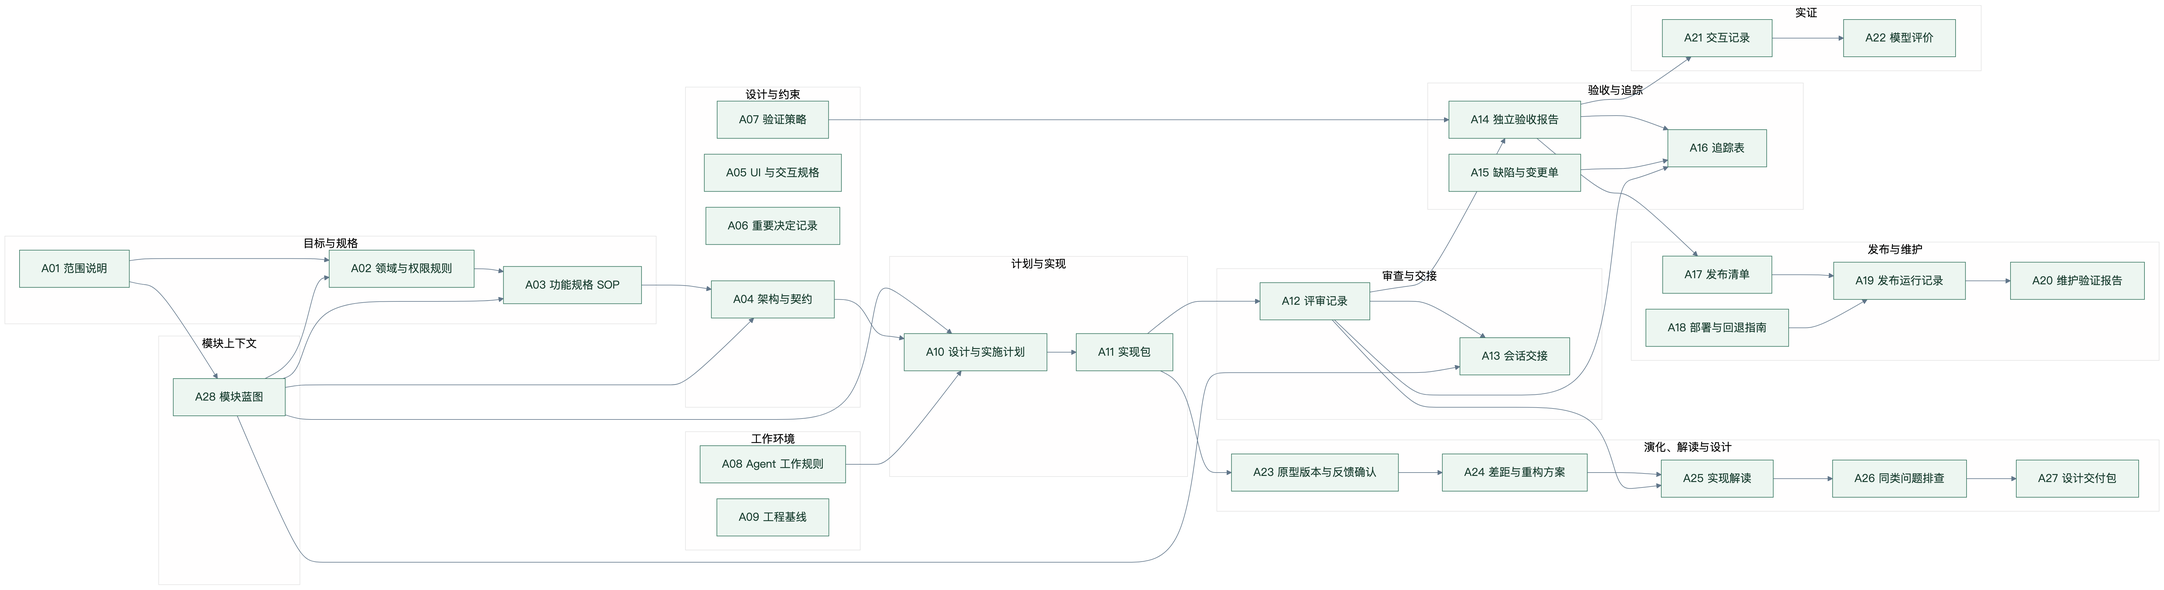
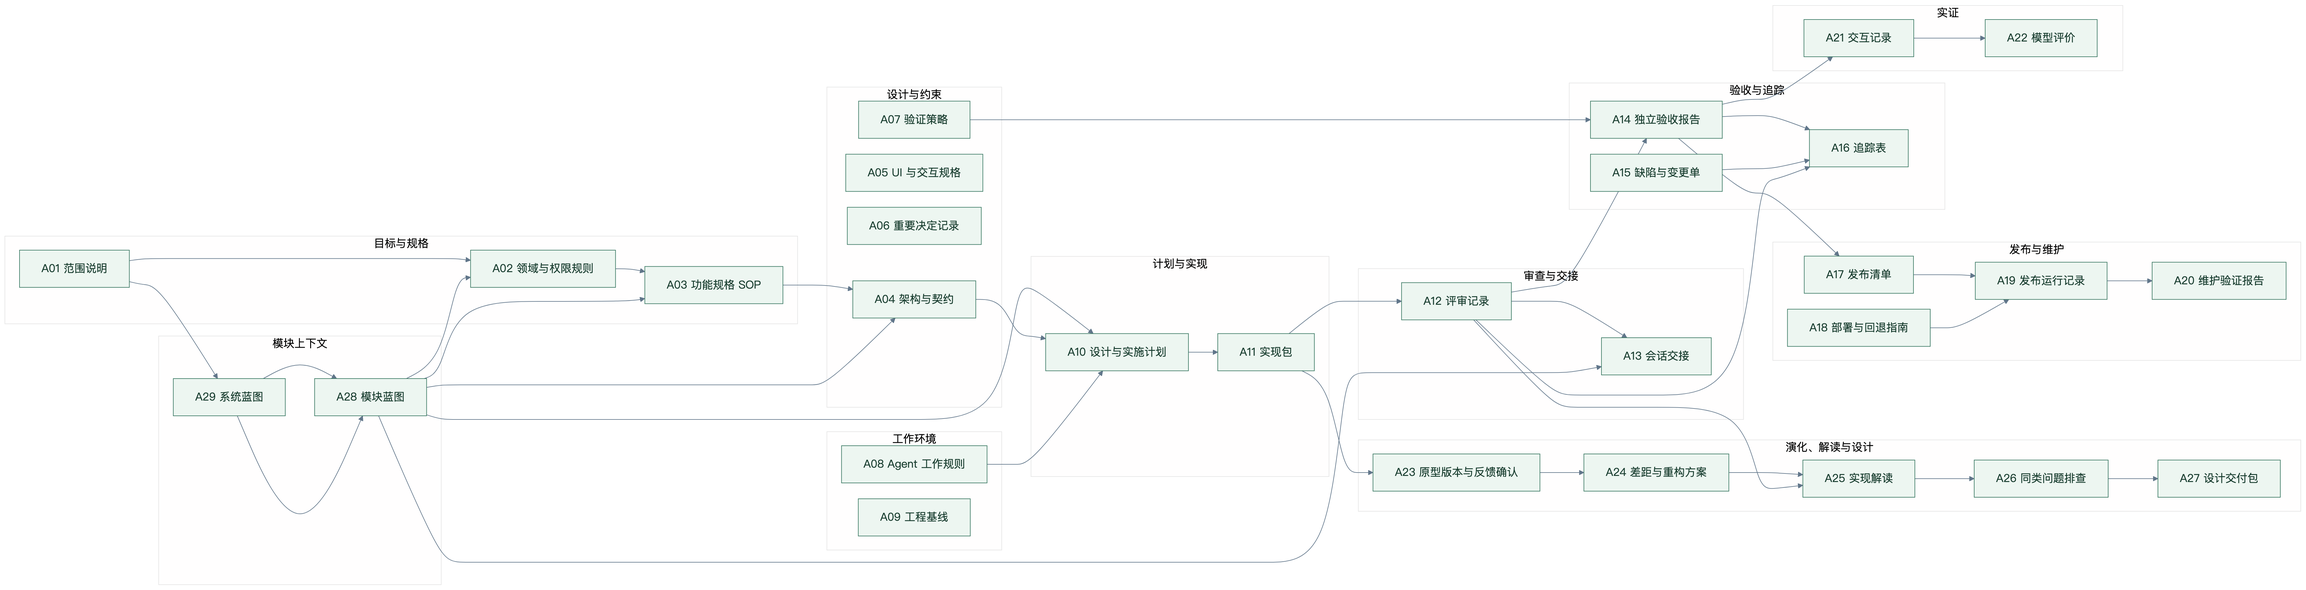
feat: add A29 system blueprint artifact

diff --git a/model/artifacts/A29-system-blueprint.md b/model/artifacts/A29-system-blueprint.md
@@ -1,0 +1,78 @@
+# A29 系统蓝图
+
+## 用途与生命周期
+
+- 适用与触发：每个项目维护一个当前有效实例；系统边界、模块地图、外部关系、跨模块流程或全局约束变化时更新。
+- 生产者：人驱动的 AI；责任角色：项目产品/技术责任人。
+- 输入：A01、A02、A04、A07、A10、所有 A28、外部系统资料、代码事实和开发人员回答。
+- 使用者与用途：模块责任人、系统实现者、架构与领域责任人、审查者、独立验收者和后续会话接手者。
+- 输出：项目内 `docs/system-blueprint.md`；实例、版本、来源及失效遵循[约定](../conventions.md)。
+- 配套：[模板](../templates/A29-system-blueprint.md) · [教学填写示例](../../examples/focustask/docs/artifact-examples/A29-system-blueprint.md)。
+
+## 必填内容与字段含义
+
+| 章节 | 必须回答 |
+| --- | --- |
+| 系统定位与边界 | 系统目标、业务上下文、包含范围、非目标和 A01 关系 |
+| 模块地图 | 模块 ID、名称、职责、状态、优先级、A28 路径和模块依赖 |
+| 外部系统与系统关系 | 外部参与者、系统、接口、事件、数据所有权和信任边界 |
+| 跨模块旅程与关键流程 | 端到端流程、模块顺序、关键分支、失败传播和恢复边界 |
+| 全局角色与不变量 | 跨模块角色边界、权限原则、数据一致性和系统级约束摘要 |
+| 系统数据流与非功能摘要 | 主要数据流、性能/安全/可用性目标、监控和 A04/A07 入口 |
+| 演化与实施顺序 | 模块依赖、实现状态、原型演化顺序、集成候选和 A10 入口 |
+| 关联制品与版本 | A01/A02/A04/A07/A10/A16 及全部 A28 的路径、版本、状态和用途 |
+| 未决事项与系统风险 | 问题、来源、影响范围、责任人、决定状态、变更传播和下一步 |
+| 确认与 handoff | 确认人、确认版本、复核意见、剩余风险、模块入口和下一条指令 |
+
+每个项目只能有一个当前有效 A29 实例。全部当前模块 A28 必须在 A29 登记，A28 必须反向记录所属 A29 路径和版本。A29 只保存系统级摘要、关系、状态和索引，不复制 A01/A02/A03/A04/A28/A10 的完整权威细节。
+
+## 质量标准与边界
+
+系统目标、边界、模块地图、外部关系、跨模块旅程和全局风险可从本文直接找到；每项摘要都有来源和版本。A01 负责项目范围，A02 负责正式领域与权限规则，A03 负责功能点细节，A04 负责技术契约，A28 负责模块内部上下文，A10 负责实施安排。发生冲突时标记来源、影响和待决定事项，不能覆盖权威制品。
+
+- 不足示例：只列模块名称，没有职责、A28 路径、模块关系、跨模块流程或来源。
+- 可判定示例：系统蓝图列出任务与通知模块，标注各自 A28、数据所有权及“创建任务后发布通知事件”的跨模块旅程，并把事件契约指向 A04。
+
+## 人驱动 AI 的操作链
+
+依[提示词协议](../practices/prompt-protocol.md)取得参数。主模型整理资料和问题，开发人员回答系统级关键问题并确认；其他模型复核是可选只读质量环节，复核意见不能自动成为业务确认。
+
+### A29-START
+
+```text
+[A29-START] 请为 {项目} 盘点系统蓝图输入。读取 {输入路径}：A01/A02/A04/A07/A10、全部已有 A28、外部系统资料、代码事实和项目约束。列出已知事实、缺口、冲突、模块候选和需要开发人员回答的问题，不补充未确认的系统边界或全局规则。
+```
+
+### A29-GENERATE
+
+```text
+[A29-GENERATE] 请依据 {输入路径} 使用 model/templates/A29-system-blueprint.md 生成 {项目} 系统蓝图草稿，写入 {输出路径}。建立系统边界、模块地图、外部关系、跨模块旅程、全局约束摘要、演化顺序和关联制品索引。每项摘要记录来源；未知内容标为待确认、模拟或不适用。
+```
+
+### A29-CLARIFY
+
+```text
+[A29-CLARIFY] 请针对 {系统蓝图问题} 读取 {输入路径}，按影响排序列出需要开发人员回答的问题和选项。记录回答来源、适用范围、影响章节及需要同步的 A01/A02/A04/A28/A10；可从仓库发现的事实直接核对，不重复询问。
+```
+
+### A29-REVIEW
+
+```text
+[A29-REVIEW] 请只读复核 {制品路径} 的系统边界、模块覆盖、跨模块旅程、外部关系、来源一致性、重复定义、未决项和下游可实施性。区分事实、建议和待确认；不能修改权威制品或把建议写成确认。
+```
+
+### A29-REVISE
+
+```text
+[A29-REVISE] 请根据开发人员确认和 {复核意见} 修订 {制品路径}。先列影响，再修改获准内容，更新 A28 清单、关联制品版本和失效/待重验项；系统语义没有确认来源时暂停相关改动。
+```
+
+### A29-HANDOFF
+
+```text
+[A29-HANDOFF] 请交付已确认的 {制品路径} 作为系统级 handoff。记录系统版本、模块/A28 清单、权威制品版本、跨模块风险、未决事项和下一条模块构建指令；说明 A29 不替代 A13 会话交接。
+```
+
+## 完成、更新与交接
+
+检查章节、来源、版本、模块清单和下游可用性；确认人和确认版本必须真实记录。草稿完成不等于系统确认，复核建议不等于业务批准。A29 版本变化保留旧版本关系；权威制品或 A28 变化后标记摘要和关联版本待更新。

diff --git a/examples/focustask/docs/artifact-examples/A29-system-blueprint.md b/examples/focustask/docs/artifact-examples/A29-system-blueprint.md
@@ -1,0 +1,63 @@
+# A29 系统蓝图 — FocusTask 教学示例
+
+> 教学填写示例。用于演示系统上下文与检查方法，不作通过结论。
+
+## 元信息
+
+- 实例 ID：FocusTask-A29-teaching
+- 项目：FocusTask 教学系统
+- 版本/状态：teaching-1/草稿（教学）
+- 责任角色：项目产品/技术责任人
+- 输入及版本：A01/A02/A04/A10 教学设定及 A28 教学示例，teaching-1
+- 确认来源：教学设定；实际项目需由开发人员确认
+- 下游用途：生成 tasks 和 notifications 模块 A28，供原型构建读取
+- 生成方式：按 A29 模板整理的教学例，未进行其他模型复核
+
+## 系统定位与边界
+
+FocusTask 教学系统用于演示团队任务创建、查看和通知协作。系统包含任务与通知两个教学模块；不包含真实邀请、计费、支付、组织管理或生产部署。
+
+## 模块地图
+
+| 模块 ID | 名称 | 职责 | 状态 | A28 路径 | 依赖 | 优先级 |
+| --- | --- | --- | --- | --- | --- | --- |
+| tasks | 任务模块 | 创建、查看和筛选任务 | 草稿 | docs/modules/tasks/module-blueprint.md | 项目/成员教学输入 | P0 |
+| notifications | 通知模块 | 接收任务变化通知 | 待生成 | docs/modules/notifications/module-blueprint.md | tasks 事件 | P1 |
+
+## 外部系统与系统关系
+
+教学系统假设身份与项目成员信息由外部前置输入提供，不实现身份提供方。通知只记录教学事件，不连接邮件、短信或推送服务。接口、事件和数据所有权待 A04/A28 确认。
+
+## 跨模块旅程与关键流程
+
+Editor 创建任务后，tasks 模块保存任务并产生“任务已创建”教学事件；notifications 模块读取事件并生成教学通知。任务创建失败时不得生成通知，恢复边界和幂等规则待 A02/A03/A04。
+
+## 全局角色与不变量
+
+Editor 可以创建任务，Viewer 只能查看；非成员不可发现项目。正式权限和数据一致性以 A02 为准，本例没有真实运行结果。
+
+## 系统数据流与非功能摘要
+
+教学数据从界面进入任务接口并持久化，再以教学事件进入通知模块。安全、性能、可用性和监控指标尚未确认，实际采用时由 A04/A07 定义。
+
+## 演化与实施顺序
+
+先建立 tasks 模块蓝图和创建任务 A03，再实现可运行原型；notifications 在任务事件契约确认后开展。集成顺序和候选版本由 A10 记录。
+
+## 关联制品与版本
+
+A01/A02/A04/A10：teaching-1；tasks A28：待根据现有教学输入更新；notifications A28：待生成；A07/A16 未执行。本例只展示关联入口。
+
+## 未决事项与系统风险
+
+待决定：通知事件的所有者、重试/去重语义、任务删除后的通知处理。答案会影响 A02、A04、两个 A28 和具体 A03。
+
+## 确认与 handoff
+
+开发人员确认：未确认。复核意见：未执行。剩余风险：系统边界、事件契约和通知数据均未确定。下一步是根据本蓝图生成 tasks 模块 A28 草稿。
+
+## 检查与交接
+
+运行类检查：未执行。实际采用时替换教学输入并验证。
+
+下一步：使用 A29-START/GENERATE 盘点真实系统资料，再生成或修订各模块 A28；本例不作通过结论。

diff --git a/model/templates/A29-system-blueprint.md b/model/templates/A29-system-blueprint.md
@@ -1,0 +1,82 @@
+# {项目} 系统蓝图
+
+> 空白模板。填写真实来源；未知、待确认和不适用必须说明原因。
+
+## 元信息
+
+- 实例 ID：{项目}-A29-{版本}
+- 项目：{项目标识}
+- 版本/状态：{版本}/{草稿或已确认}
+- 责任角色：{项目产品/技术责任人}
+- 输入及版本：{A01/A02/A04/A07/A10/全部 A28/其他资料}
+- 确认来源：{开发人员回答、既有制品或待确认}
+- 下游用途：{模块规划/实现/审查/验收/会话 handoff}
+- 生成方式：主模型整理；可选其他模型只读复核
+
+## 系统定位与边界
+
+填写要求：系统目标、业务上下文、包含范围、非目标和 A01 关系。
+
+{填写内容}
+
+## 模块地图
+
+填写要求：模块 ID、名称、职责、状态、优先级、A28 路径和模块依赖。
+
+| 模块 ID | 名称 | 职责 | 状态 | A28 路径 | 依赖 | 优先级 |
+| --- | --- | --- | --- | --- | --- | --- |
+| {模块} | {名称} | {职责} | {待生成/草稿/确认} | {路径} | {依赖} | {优先级} |
+
+## 外部系统与系统关系
+
+填写要求：外部参与者、系统、接口、事件、数据所有权和信任边界。
+
+{填写内容}
+
+## 跨模块旅程与关键流程
+
+填写要求：端到端流程、模块顺序、关键分支、失败传播和恢复边界。
+
+{填写内容}
+
+## 全局角色与不变量
+
+填写要求：跨模块角色边界、权限原则、数据一致性和系统级约束摘要；详细规则不在本文重复。
+
+{填写内容}
+
+## 系统数据流与非功能摘要
+
+填写要求：主要数据流、性能/安全/可用性目标、监控和 A04/A07 入口。
+
+{填写内容}
+
+## 演化与实施顺序
+
+填写要求：模块依赖、当前实现状态、原型演化顺序、集成候选和 A10 入口。
+
+{填写内容}
+
+## 关联制品与版本
+
+填写要求：记录 A01、A02、A04、A07、A10、A16 和所有 A28 的路径、版本、状态和用途。
+
+{填写内容}
+
+## 未决事项与系统风险
+
+填写要求：问题、来源、影响范围、责任人、决定状态、变更传播和下一步。
+
+{填写内容}
+
+## 确认与 handoff
+
+填写要求：确认人、确认版本、复核意见、采纳决定、剩余风险、模块入口和下一条系统/模块指令。
+
+{填写内容}
+
+## 检查与交接
+
+系统蓝图检查：{未执行/结果和证据路径}。
+
+下一步：{读取 A29 后生成或更新具体 A28 的指令}。

diff --git a/model/artifacts/A28-module-blueprint.md b/model/artifacts/A28-module-blueprint.md
@@ -4,7 +4,7 @@
 
 - 适用与触发：每个需要独立原型上下文的业务模块使用；模块边界、能力地图、跨模块关系或功能清单变化时更新。
 - 生产者：人驱动的 AI；责任角色：模块产品/技术责任人。
-- 输入：A01、A02、A04、A07、A10、已有 A03、代码与产品资料、相关模块资料和开发人员回答。
+- 输入：所属系统 A29、A01、A02、A04、A07、A10、已有 A03、代码与产品资料、相关模块资料和开发人员回答。
 - 使用者与用途：模块功能实现者、架构与领域责任人、审查者、独立验收者和后续会话接手者。
 - 输出：项目内模块目录的 `module-blueprint.md`；实例、版本、来源及失效遵循[约定](../conventions.md)。
 - 配套：[模板](../templates/A28-module-blueprint.md) · [教学填写示例](../../examples/focustask/docs/artifact-examples/A28-module-blueprint.md)。
@@ -24,7 +24,7 @@
 | 未决事项与变更影响 | 问题、来源、影响范围、责任人、决定状态和下一步 |
 | 确认与 handoff | 确认人、确认版本、复核意见、剩余风险、接手入口和下一条指令 |
 
-每个实例必须有稳定模块 ID，例如 `orders`；每个功能点 A03 必须记录所属模块 ID 和 A28 路径。A28 只保存摘要、索引和关系，不复制 A02/A03/A04/A10 的完整权威细节；冲突时标记来源、影响和待决定事项。
+每个实例必须有稳定模块 ID，例如 `orders`，并记录所属系统 A29 路径和版本；每个功能点 A03 必须记录所属模块 ID 和 A28 路径。A28 只保存摘要、索引和关系，不复制 A02/A03/A04/A10 的完整权威细节；冲突时标记来源、影响和待决定事项。
 
 ## 质量标准与边界
 

diff --git a/execution/status.md b/execution/status.md
@@ -23,6 +23,7 @@
 | DG-08 图解文档与测试 | 完成 | 图解说明、生成说明、README、AGENTS 同步；渲染器与图解用例入夹具 |
 | DG-09 状态与交付 | 完成 | 本节记录实际检查与工具版本；按 AGENTS.md 提交并推送 |
 | A28 模块蓝图 | 完成 | A28 规范、模板、教学例、索引、目录、检查器、测试和制品图已同步；检查器 artifacts 28，40 项测试通过 |
+| A29 系统蓝图 | 完成 | A29 规范、模板、教学例、索引、目录、检查器、系统入口和制品图已同步；检查器 artifacts 29，44 项测试通过 |
 | V03-01 现状盘点与任务准备 | 完成 | 基线 bdcef91 工作区干净；材料、工具与缺口已登记，恢复入口见 [V03 任务状态](v03/status.md) |
 | V03-02 总纲与裁剪 | 完成 | 三种组织方式、AGENTS 七项最低内容、追踪与演化、同类排查横贯规则已写入；四份活动指南交接出口补裁剪衔接 |
 | V03-03 活动指南 | 完成 | 七份指南衔接完整；术语统一为独立验收，构建/精修/验收点名同类排查，发布点名四项返回活动 |
@@ -32,7 +33,7 @@
 
 | 内容 | 事实 |
 | --- | --- |
-| A01–A28 | 规范、模板、教学例均存在；A28 为模块级蓝图 |
+| A01–A29 | 规范、模板、教学例均存在；A28 为模块级蓝图，A29 为系统级蓝图 |
 | 通用实践 | 初始化、提示词、上下文、变更、验证及裁剪与活动组织可用 |
 | 生命周期指南 | 独立验收、发布、维护三份指南存在，输入与返回已衔接四项活动 |
 | 四项详细开发活动指南 | 已建设：构建、重构、审查、精修各含 7 类提示词与教学示例 |

diff --git a/model/overview.md b/model/overview.md
@@ -38,7 +38,7 @@
 - [生命周期图解](visual-guide.md)：四组图解与读图要点；需要整体关系或向人解释模型时，改源码或重新导出见[生成说明](diagrams/README.md)。
 - [约定](conventions.md)：制品标识、状态分类、证据与失效规则；生成或修订任何制品前核对。
 - [裁剪](tailoring.md)：活动组织、并行边界和 A10 记录要求；首次采用、组织方式或团队/风险变化时。
-- [制品目录](artifact-catalog.md)：A01–A28 的规范、模板与教学例入口；选择或填写制品时。机器可读清单见[制品索引](artifact-index.json)，供文档检查器校验编号与三类文档齐备。
+- [制品目录](artifact-catalog.md)：A01–A29 的规范、模板与教学例入口；选择或填写制品时。机器可读清单见[制品索引](artifact-index.json)，供文档检查器校验编号与三类文档齐备。
 - 实践：对应操作开始前读相应实践，含[初始化](practices/initialization.md)、[提示词协议](practices/prompt-protocol.md)、[交接](practices/context.md)、[变更](practices/change-control.md)、[验证规则](practices/verification.md)。
 - 活动与阶段：进入对应活动或阶段时读相应指南，含四项活动（[构建](stages/01-prototype-building.md)、[重构](stages/02-prototype-refactoring.md)、[审查](stages/03-prototype-review.md)、[精修](stages/04-prototype-polishing.md)）与[独立验收](stages/05-verification.md)、[发布](stages/06-release.md)、[维护](stages/07-maintenance.md)。
 - [教学上下文](../examples/focustask/docs/context.md)：虚构教学输入；练习填写与检查方法时。

diff --git a/model/artifacts/A03-feature-spec.md b/model/artifacts/A03-feature-spec.md
@@ -4,7 +4,7 @@
 
 - 适用与触发：每项业务功能必要；AC 可嵌入本文；新增功能、确认需求变化或发现规格歧义。
 - 生产者：人驱动的 AI；责任角色：产品责任人。
-- 输入：所属模块 A28、A01/A02、页面草稿、接口约束及已接受 ADR。
+- 输入：所属系统 A29、所属模块 A28、A01/A02、页面草稿、接口约束及已接受 ADR。
 - 使用者与用途：编码 Agent 生成实现与测试；独立验收者建立逐项用例。
 - 输出：项目内 `docs/features/TASK-001-create-task.md`；实例、版本、来源及失效遵循[约定](../conventions.md)。
 - 配套：[模板](../templates/A03-feature-spec.md) · [教学填写示例](../../examples/focustask/docs/artifact-examples/A03-feature-spec.md)。
@@ -13,7 +13,7 @@
 
 | 章节 | 必须回答 |
 | --- | --- |
-| 元信息与范围 | 所属模块 ID、A28 路径、编号、优先级、当前状态、责任角色、依赖、包含与不包含 |
+| 元信息与范围 | 所属系统 A29、模块 ID、A28 路径、编号、优先级、当前状态、责任角色、依赖、包含与不包含 |
 | 用户故事与前置条件 | 角色、意图、业务价值；登录、资源和状态条件 |
 | 输入与规则 | 字段类型、规范化、必填、边界、默认值、错误文本及规则来源 |
 | 流程与数据变化 | 正常流程、角色与权限判定、事务结果、幂等/并发、持久化与数据变化 |

diff --git a/AI_LIFECYCLE_A29_SYSTEM_BLUEPRINT_PLAN.md b/AI_LIFECYCLE_A29_SYSTEM_BLUEPRINT_PLAN.md
@@ -1,6 +1,16 @@
 # A29 系统蓝图建设计划
 
-> 计划版本：1.0 · 目标模型版本：0.5 · 状态：待执行
+> 计划版本：1.0 · 目标模型版本：0.5 · 状态：已完成
+
+## 12. 实际执行记录
+
+- A29 规范、模板、FocusTask 教学例、索引和目录已建立。
+- 检查器已扩展到 A01–A29；A28/A29 使用 6 类提示词，A01–A27 保持原有 9 类提示词。
+- A29 已接入 A28、A03、原型构建入口、README、总纲、约定和执行状态。
+- Mermaid 源码已更新并重新导出 4 组 SVG/PNG；`artifacts.png` 已完成视觉核对，A29 系统蓝图和 A29→A28 关系可读。
+- `node scripts/check-docs.mjs`：退出 0，`files: 119`、`localLinks: 386`、`artifacts: 29`、`activities: 4`、`stages: 3`、`errors: []`。
+- `node --test scripts/check-docs.test.mjs`：44 项通过，0 失败/跳过。
+- `git diff --check`：退出 0。
 >
 > 用途：为每个项目建立一份系统级上下文，连接项目目标、系统模块、跨模块流程、外部系统和 A28 模块蓝图，作为 AI 进入模块和功能实现前的全局 handoff 入口。
 

diff --git a/model/stages/01-prototype-building.md b/model/stages/01-prototype-building.md
@@ -3,7 +3,7 @@
 ## 进入、职责与输出
 
 - 触发：具备顶层目标与当前功能的必要细节即可启动；新一轮演化以当前原型、反馈和已确认结果为输入。
-- 输入：模块 A28、A01范围与目标、A02领域与权限规则、当前原型与运行入口、已知反馈、适用约束与A07策略。
+- 输入：系统 A29、模块 A28、A01范围与目标、A02领域与权限规则、当前原型与运行入口、已知反馈、适用约束与A07策略。
 - 产出：[制品目录](../artifact-catalog.md)中的 A03功能规格（SOP）、A10设计与实施计划（plan）、A11实现包、A23原型版本与反馈确认记录，以及受影响的A01/A02更新。
 - 人与AI分工：人给目标、关键业务规则、重要取舍与风险接受，并亲自体验原型给出反馈；AI分析需求、提出方案、生成代码与测试、整理差异与未决事项。
 - 退出：本轮选定行为得到确认，运行入口可用，模拟边界与未决事项明确，足以进入下一项适用活动。

diff --git a/README.md b/README.md
@@ -7,7 +7,7 @@
 ## 如何使用
 
 1. 阅读[模型总纲](model/overview.md)，了解活动关系、人和 AI 的职责及适用边界。
-2. 从[制品目录](model/artifact-catalog.md)选择所需规范、模板和填写示例；模块化工作先建立 A28 模块蓝图，再展开各功能点 A03。
+2. 从[制品目录](model/artifact-catalog.md)选择所需规范、模板和填写示例；系统化工作先建立 A29 系统蓝图，再建立 A28 模块蓝图并展开各功能点 A03。
 3. 根据[初始化](model/practices/initialization.md)与[裁剪规则](model/tailoring.md)确定工作环境和制品组合。
 4. 使用[提示词协议](model/practices/prompt-protocol.md)驱动 AI 生成、检查、修订和交接制品。
 5. 进入[原型构建](model/stages/01-prototype-building.md)、[原型重构](model/stages/02-prototype-refactoring.md)、[原型审查](model/stages/03-prototype-review.md)、[原型精修](model/stages/04-prototype-polishing.md)等活动指南。

diff --git a/model/visual-guide.md b/model/visual-guide.md
@@ -18,7 +18,7 @@
 
 ![制品流转图解](diagrams/artifacts.svg)
 
-A01–A28 按用途分为十组，主流程为目标与模块上下文、规格、设计与约束、计划与实现、审查与交接、验收与追踪、发布与维护；A28 承载模块蓝图，A23–A27 承载原型版本确认、重构方案、实现解读、同类排查与设计交付；A16 持续汇聚追踪，A21 与 A22 作为实证旁路。返回、失效与重验关系以各制品规范和生命周期图为准。
+A01–A29 按用途分为十一组，主流程为目标、系统与模块上下文、规格、设计与约束、计划与实现、审查与交接、验收与追踪、发布与维护；A29 承载系统蓝图，A28 承载模块蓝图，A23–A27 承载原型版本确认、重构方案、实现解读、同类排查与设计交付；A16 持续汇聚追踪，A21 与 A22 作为实证旁路。返回、失效与重验关系以各制品规范和生命周期图为准。
 
 ## 活动组织方式
 

diff --git a/model/artifact-catalog.md b/model/artifact-catalog.md
@@ -36,3 +36,4 @@
 | A26 | [同类问题排查与修复记录](artifacts/A26-pattern-remediation.md) | 发现缺陷、验收失败或维护问题时必要；未发现其他实例也记录范围、方法与限制 | `evidence/pattern-remediation.md` |
 | A27 | [视觉与交互设计交付包](artifacts/A27-design-delivery.md) | 有UI且开展精修时必要；无UI不生成但保留A05；设计来源、版本或交付内容变化时更新 | `docs/design/{特性}/delivery.md` |
 | A28 | [模块蓝图](artifacts/A28-module-blueprint.md) | 需要为业务模块建立整体上下文时必要；模块边界、能力地图、跨模块关系或功能清单变化时更新 | `docs/modules/{模块}/module-blueprint.md` |
+| A29 | [系统蓝图](artifacts/A29-system-blueprint.md) | 每个项目需要系统级上下文时必要；系统边界、模块地图、跨模块旅程或外部关系变化时更新 | `docs/system-blueprint.md` |
